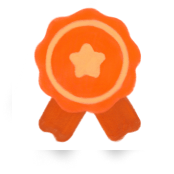
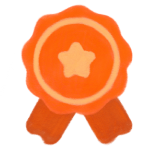
design: 폰트사이즈 변경 & 카테고리 아이콘 변경

diff --git a/src/shared/components/Category.tsx b/src/shared/components/Category.tsx
@@ -60,10 +60,7 @@ const Category = ({
         background-color: ${backgroundColor || colors.gray900};
       `}
     >
-      <img
-        css={css`
-          width: 100%;
-        `}
+      <StyledImage
         src={CATEGORY_MAPPER[type].icon}
         alt={`${CATEGORY_MAPPER[type].name}카테고리`}
       />
@@ -82,4 +79,9 @@ const Container = styled.div`
   cursor: pointer;
 
   border-radius: 50%;
+`;
+
+const StyledImage = styled.img`
+  width: 100%;
+  height: 100%;
 `;

diff --git a/src/shared/components/Textarea.tsx b/src/shared/components/Textarea.tsx
@@ -38,7 +38,7 @@ const StyledTextarea = styled.textarea`
   width: 100%;
   height: 100%;
 
-  size: 0.875rem;
+  font-size: 1rem;
   font-weight: 500;
   line-height: 1.25rem;
   color: ${colors.gray100};
